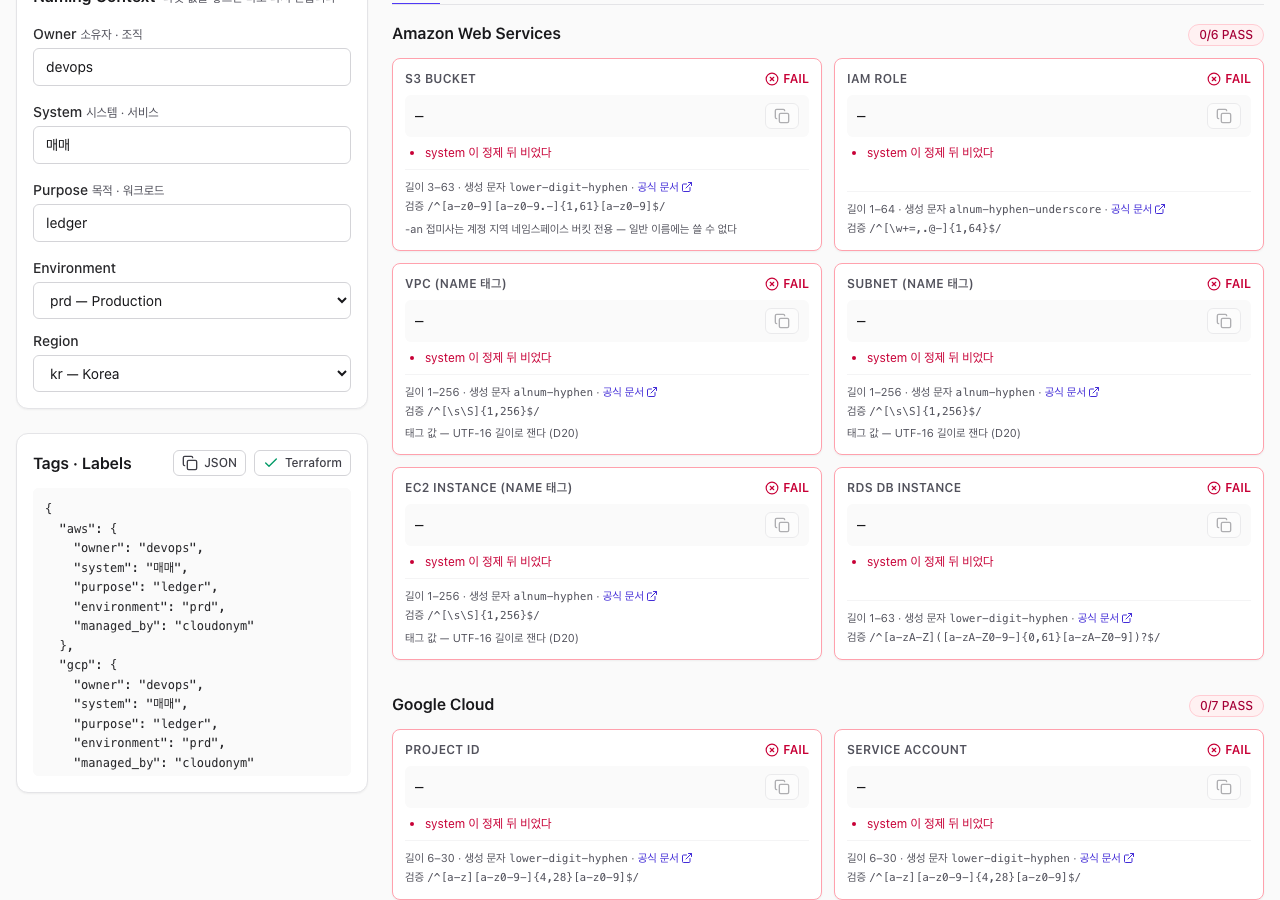
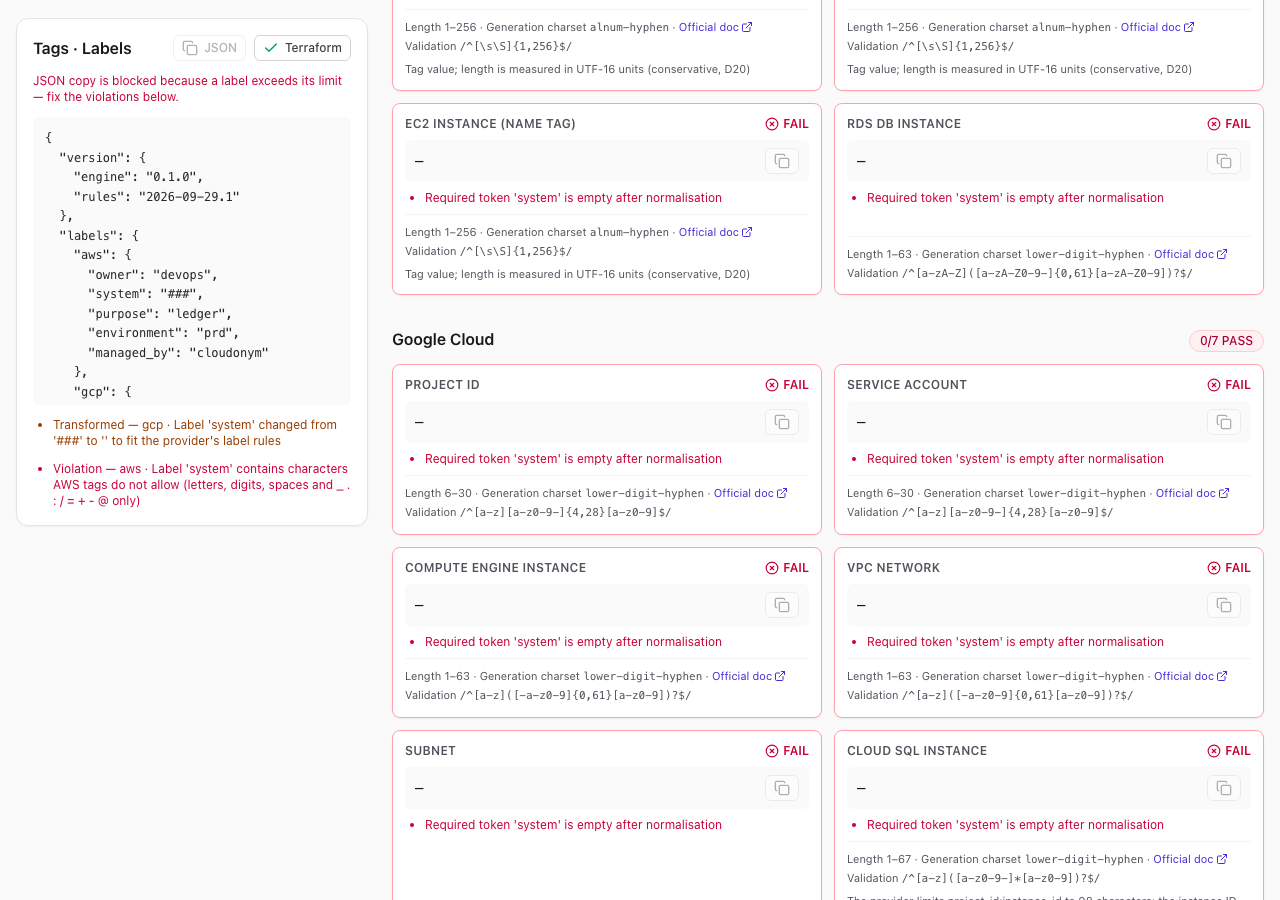
test(ui): 화면 시나리오를 영어 문구로 옮기고 옛 규칙 링크 시나리오 ⑻ ⑼ 를 더하고 스크린샷을 다시 찍는다
- tests/ui/screen.py: 기대 문자열을 사전(en.ts) 문장으로. 지금 규칙 버전은 /v1/health 의 version.rules 로 읽는다
- ⑴ lang="en" · PASS 뜻 줄 · 버전 꼬리말 · 안내 없음 · 화면 글자에 한글 0 · 공유 hash 의 v = 지금 버전
- ⑸ Terraform 첫 줄 주석 둘(버전 · PASS 뜻) 뒤 locals { · 태그 JSON 은 { version, labels }
- ⑷ 정제 뒤 빈 토큰 — 한글 입력도 FAIL 인지 본 뒤, 공개 스크린샷은 기호만 든 ASCII 입력(###)으로 찍는다
- ⑻ 옛 v 링크 → 안내 → 새로고침해도 안내와 옛 v 가 남는다 → Share URL 은 지금 버전 · 주소창은 그대로
  → 폼을 고치면 안내가 사라지고 hash 의 v 가 지금 버전
- ⑼ 같은 탭에서 옛 v hash 로 이동 → 안내 · 폼이 따라온다 · hash 를 다시 쓰지 않는다
- docs/screenshots 넉 장을 중립 예시 값으로 다시 찍었다. 실행 결과: ⑴~⑼ 통과

Claude-Session: https://claude.ai/code/session_01J2uam4Cb5k59Z6C1T3sdVk

diff --git a/tests/ui/screen.py b/tests/ui/screen.py
@@ -1,4 +1,7 @@
-"""개발 3단계 화면 시험 (Task 3-4) — Playwright(Python) 로 다섯 시나리오를 재고 스크린샷을 남긴다.
+"""화면 시험 — Playwright(Python) 로 시나리오 ⑴~⑼를 재고 스크린샷을 남긴다 (개발 3단계 Task 3-4 · 문구 코드화 T5).
+
+화면 문구는 영어 사전(src/messages/en.ts)이 정본이다 — 아래 기대 문자열은 그 사전의 문장이다.
+스크린샷에는 중립 예시 값만 쓴다(INPUT · OTHER · 기호만 든 system).
 
 실행(저장소 루트) — 터미널 둘:
   ① npm run dev -- --port 5199 --strictPort
@@ -30,10 +33,23 @@ SA = '[data-rule="gcp.service_account"]'
 OTHER = {'owner': 'infra', 'system': 'billing', 'purpose': 'batch', 'env': 'stg', 'region': 'jp'}
 
 
-def state_hash(ctx):
-    """encodeState 와 같은 꼴 — 고정 순서 JSON(공백 없음) · UTF-8 · Base64url · 패딩 없음"""
-    raw = json.dumps({k: ctx[k] for k in ('owner', 'system', 'purpose', 'env', 'region')}, separators=(',', ':'), ensure_ascii=False)
+# 옛 규칙 버전 — 지금 버전(/v1/health 의 version.rules)과 다른, 꼴이 맞는 값 (D27 ⑵)
+OLD_RULES = '2000-01-01.1'
+
+
+def state_hash(ctx, v=None):
+    """encodeState 와 같은 꼴 — 고정 순서 JSON(공백 없음) · v 는 마지막 키 · UTF-8 · Base64url · 패딩 없음"""
+    body = {k: ctx[k] for k in ('owner', 'system', 'purpose', 'env', 'region')}
+    if v is not None:
+        body['v'] = v
+    raw = json.dumps(body, separators=(',', ':'), ensure_ascii=False)
     return '#state=' + base64.urlsafe_b64encode(raw.encode()).rstrip(b'=').decode()
+
+
+def hash_state(hash_or_url):
+    """`…#state=…` → JSON 객체 (시험이 v 를 읽는다)"""
+    enc = hash_or_url.split('#state=', 1)[1]
+    return json.loads(base64.urlsafe_b64decode(enc + '=' * (-len(enc) % 4)).decode())
 
 
 # select 의 선택지 글자가 상자 안에 다 들어가는가 — select 는 scrollWidth 가 넘침을 드러내지 않아 글자 폭을 canvas 로 잰다
@@ -97,11 +113,20 @@ with sync_playwright() as p:
     page.on('pageerror', lambda e: errors.append(str(e)))
     sent = events_of(page)
     goto_ready(page, BASE + '/')
+    VERSION = page.request.get(BASE + '/v1/health').json()['version']
+    RULES = VERSION['rules']
+    assert RULES != OLD_RULES, RULES
     expect(page.locator('h1')).to_have_text('Cloudonym')
+    assert page.evaluate('document.documentElement.lang') == 'en'
+    # PASS 뜻 한 줄(D28) · 버전 꼬리말(D26) · 링크가 없으면 규칙 버전 안내도 없다
+    expect(page.locator('[data-pass-meaning]')).to_contain_text('It does not mean the name is available')
+    expect(page.locator('[data-pass-meaning]')).to_contain_text('Generated names are not guaranteed unique')
+    expect(page.locator('[data-version]')).to_have_text(f"Engine {VERSION['engine']} · rules {RULES}")
+    expect(page.locator('[data-rules-mismatch]')).to_have_count(0)
     fill_five(page, INPUT)
     sa = page.locator(SA)
     expect(sa.locator('[data-name]')).to_have_text('payments-ledger-prd-sa-sync')
-    expect(sa.locator('[data-steps]')).to_contain_text('축약 — region 생략 · owner 생략 (원래 37자)')
+    expect(sa.locator('[data-steps]')).to_contain_text("Shortened — Dropped optional token 'region' · Dropped optional token 'owner' (originally 37 characters)")
     expect(sa).to_have_attribute('data-valid', 'true')
     expect(sa).to_contain_text('PASS')
     expect(page.locator('[data-rule="azure.storage_account"] [data-name]')).to_have_text('stpaymentsledgerprd')
@@ -121,15 +146,25 @@ with sync_playwright() as p:
     page.screenshot(path=str(OUT / '01-desktop-light.png'), full_page=True)
     share_url = page.url
     assert '#state=' in share_url, share_url
+    assert hash_state(share_url).get('v') == RULES, hash_state(share_url)
+    # 화면에 시스템 문구 한글 0 — 입력이 ASCII 라 보이는 글자에 한글이 있으면 시스템 문구다
+    body_text = page.inner_text('body')
+    assert not any('\uac00' <= ch <= '\ud7a3' or '\u3131' <= ch <= '\u318e' for ch in body_text), body_text
 
     # ── ⑸ Terraform 복사 → 클립보드가 locals { 로 시작 · 태그 JSON · 이름 복사 ──
     page.click('[data-copy="terraform"]')
     hcl = page.evaluate('navigator.clipboard.readText()')
-    assert hcl.startswith('locals {\n'), hcl[:40]
+    # 첫 줄 주석 둘 — 엔진 · 규칙 버전과 PASS 뜻 (D26) — 그 다음 locals {
+    head = hcl.split('\n')
+    assert head[0] == f"# Generated by Cloudonym — engine {VERSION['engine']} · rules {RULES}", head[:3]
+    assert head[1].startswith('# PASS means') and head[2] == 'locals {', head[:3]
     assert '  gcp_service_account = "payments-ledger-prd-sa-sync"\n' in hcl, hcl
     assert '  gcp_labels = {\n' in hcl and 'INVALID' not in hcl, hcl
     page.click('[data-copy="tags-json"]')
-    tags = json.loads(page.evaluate('navigator.clipboard.readText()'))
+    copied_tags = json.loads(page.evaluate('navigator.clipboard.readText()'))
+    # { version, labels } 로 감싼다 (D26)
+    assert copied_tags['version'] == VERSION, copied_tags['version']
+    tags = copied_tags['labels']
     assert tags['gcp'] == {'owner': 'devops', 'system': 'payments', 'purpose': 'ledger', 'environment': 'prd', 'managed_by': 'cloudonym'}, tags
     assert set(tags) == {'aws', 'gcp', 'azure'}, list(tags)
     page.click(f'{SA} [data-copy="name:gcp.service_account"]')
@@ -190,20 +225,24 @@ with sync_playwright() as p:
         assert page3.evaluate('location.hash').startswith('#state=eyJ'), page3.evaluate('location.hash')
         ctx3.close()
 
-    # ── ⑷ 정제 뒤 빈 토큰(매매) → FAIL 카드 · 복사 버튼 비활성 · Terraform 은 INVALID 주석 ──
+    # ── ⑷ 정제 뒤 빈 토큰 → FAIL 카드 · 복사 버튼 비활성 · Terraform 은 INVALID 주석 ──
+    # 한글 입력(매매)도 같은 FAIL 이다 — 먼저 확인하고, 공개 스크린샷은 기호만 든 ASCII 입력(###)으로 찍는다
     page.fill('#field-system', '매매')
     expect(sa).to_have_attribute('data-valid', 'false')
+    expect(sa.locator('[data-violations]')).to_contain_text("Required token 'system' is empty after normalisation")
+    page.fill('#field-system', '###')
+    expect(sa).to_have_attribute('data-valid', 'false')
     expect(sa).to_contain_text('FAIL')
-    expect(sa.locator('[data-violations]')).to_contain_text('system 이 정제 뒤 비었다')
+    expect(sa.locator('[data-violations]')).to_contain_text("Required token 'system' is empty after normalisation")
     expect(sa.locator('[data-name]')).to_have_text('—')
-    # 정제 뒤 빈 값의 변환 줄(「system: 매매→」)은 숨긴다 — 위반 이유가 이미 말한다 (M-2)
+    # 정제 뒤 빈 값의 변환 줄(「'system' normalised from '###' to ''」)은 숨긴다 — 위반 이유가 이미 말한다 (M-2)
     expect(sa.locator('[data-steps]')).to_have_count(0)
-    assert '→' not in sa.inner_text(), sa.inner_text()
+    assert 'normalised from' not in sa.inner_text(), sa.inner_text()
     expect(sa.locator('button[data-copy]')).to_be_disabled()
     expect(page.locator('[data-provider="gcp"] [data-pass-count]')).to_have_text('0/7 PASS')
     page.click('[data-copy="terraform"]')
     hcl_bad = page.evaluate('navigator.clipboard.readText()')
-    assert '  # INVALID: gcp_service_account — system 이 정제 뒤 비었다\n' in hcl_bad, hcl_bad
+    assert "  # INVALID: gcp_service_account — Required token 'system' is empty after normalisation\n" in hcl_bad, hcl_bad
     assert 'gcp_service_account =' not in hcl_bad
     sa.scroll_into_view_if_needed()
     page.screenshot(path=str(OUT / '04-fail-card.png'), full_page=False)
@@ -225,7 +264,42 @@ with sync_playwright() as p:
     assert bg not in ('rgb(255, 255, 255)', 'rgba(0, 0, 0, 0)'), f'다크 모드 배경이 아니다: {bg}'
     page4.screenshot(path=str(OUT / '03-desktop-dark.png'), full_page=True)
     dark.close()
+
+    # ── ⑻ 옛 v 링크 → 안내 · 새로고침해도 안내와 옛 v 가 남는다 · Share URL 은 지금 버전 · 폼을 고치면 안내가 사라지고 v 가 지금 버전 (D27 ⑵) ──
+    ctx8 = browser.new_context(viewport={'width': 1280, 'height': 900})
+    ctx8.grant_permissions(['clipboard-read', 'clipboard-write'], origin=BASE)
+    page8 = ctx8.new_page()
+    page8.on('pageerror', lambda e: errors.append(str(e)))
+    old_hash = state_hash(INPUT, OLD_RULES)
+    goto_ready(page8, BASE + '/' + old_hash)
+    notice = page8.locator('[data-rules-mismatch]')
+    expect(notice).to_have_text(f'This link was made with rules {OLD_RULES}; the current rules are {RULES}. Names may differ.')
+    for key, val in INPUT.items():
+        expect(page8.locator(f'#field-{key}')).to_have_value(val)
+    page8.wait_for_timeout(300)
+    assert page8.evaluate('location.hash') == old_hash, page8.evaluate('location.hash')
+    page8.reload(wait_until='networkidle')
+    expect(notice).to_be_visible()
+    assert page8.evaluate('location.hash') == old_hash, page8.evaluate('location.hash')
+    page8.click('[data-copy="share-url"]')
+    shared = page8.evaluate('navigator.clipboard.readText()')
+    assert hash_state(shared) == {**INPUT, 'v': RULES}, hash_state(shared)
+    assert page8.evaluate('location.hash') == old_hash, '공유 버튼이 주소창의 옛 v 를 바꾸면 안 된다'
+    page8.fill('#field-purpose', 'batch')
+    expect(notice).to_have_count(0)
+    page8.wait_for_function('h => location.hash !== h', arg=old_hash)
+    assert hash_state(page8.url) == {**INPUT, 'purpose': 'batch', 'v': RULES}, hash_state(page8.url)
+
+    # ── ⑼ 같은 탭에서 옛 v hash 로 이동 → 안내가 보이고 폼이 따라온다 ──
+    other_old = state_hash(OTHER, OLD_RULES)
+    page8.evaluate('h => { location.hash = h; }', other_old)
+    expect(notice).to_be_visible()
+    for key, val in OTHER.items():
+        expect(page8.locator(f'#field-{key}')).to_have_value(val)
+    page8.wait_for_timeout(300)
+    assert page8.evaluate('location.hash') == other_old, page8.evaluate('location.hash')
+    ctx8.close()
     browser.close()
 
     assert errors == [], errors
-    print('OK — 시나리오 ⑴~⑺ 통과 · 비콘', sent, '· 스크린샷', sorted(p.name for p in OUT.glob('*.png')))
+    print('OK — 시나리오 ⑴~⑼ 통과 · 비콘', sent, '· 스크린샷', sorted(p.name for p in OUT.glob('*.png')))
